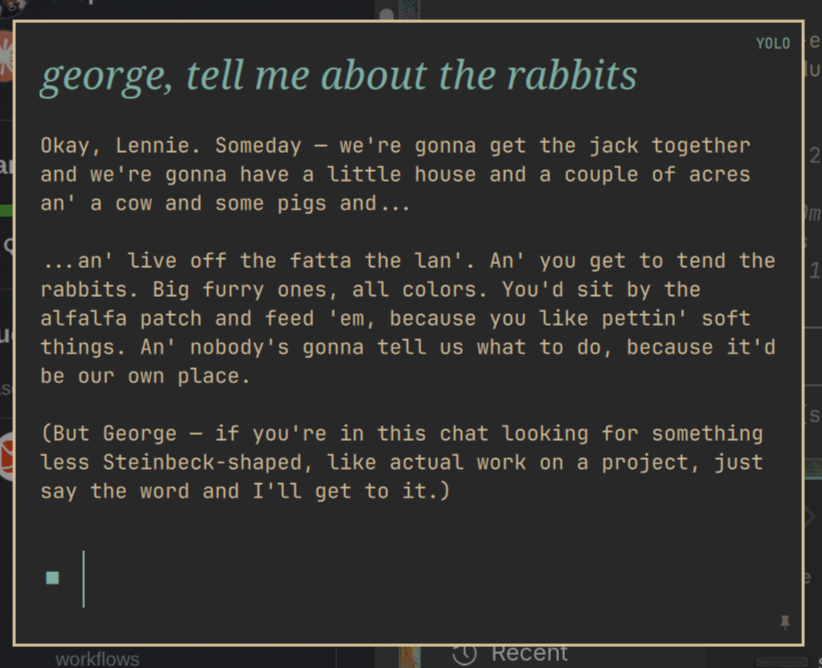
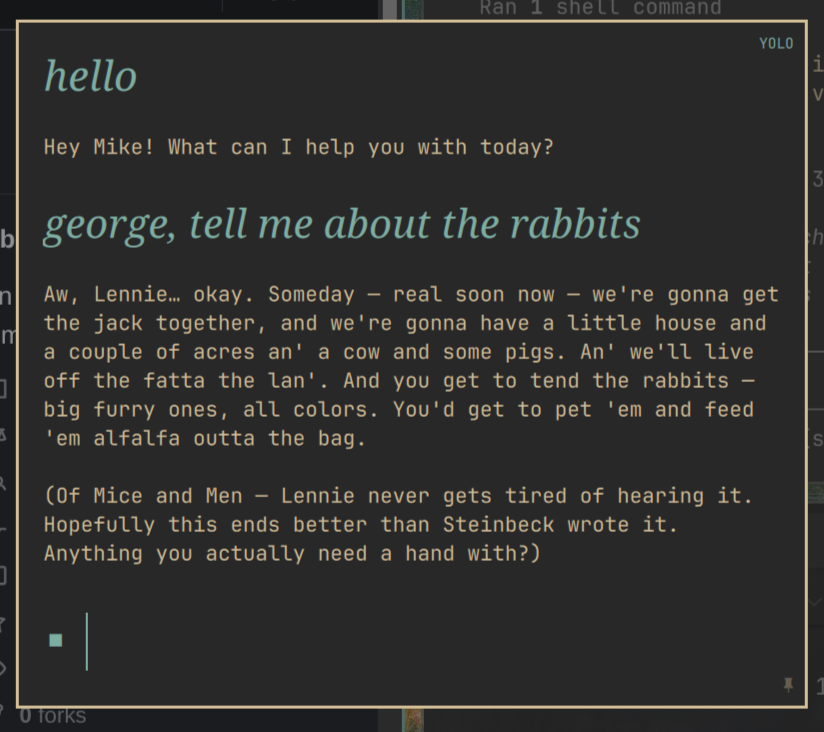
Update the reply screenshot to a two-turn exchange

diff --git a/README.md b/README.md
@@ -4,7 +4,7 @@ An AI-enabled launcher for Omarchy.
 
 ![Omarchy Ask with "who watches the watchers" typed and the agent thinking](assets/omarchy-ask-prompt.png)
 
-![Omarchy Ask: "george, tell me about the rabbits", with the agent replying in character](assets/omarchy-ask.png)
+![Omarchy Ask: a short exchange, then "george, tell me about the rabbits" answered in character](assets/omarchy-ask.png)
 
 ![Typing "app" in the Ask prompt, with menu rows and installed applications listed beneath it](assets/omarchy-ask-menu-search.png)
 
